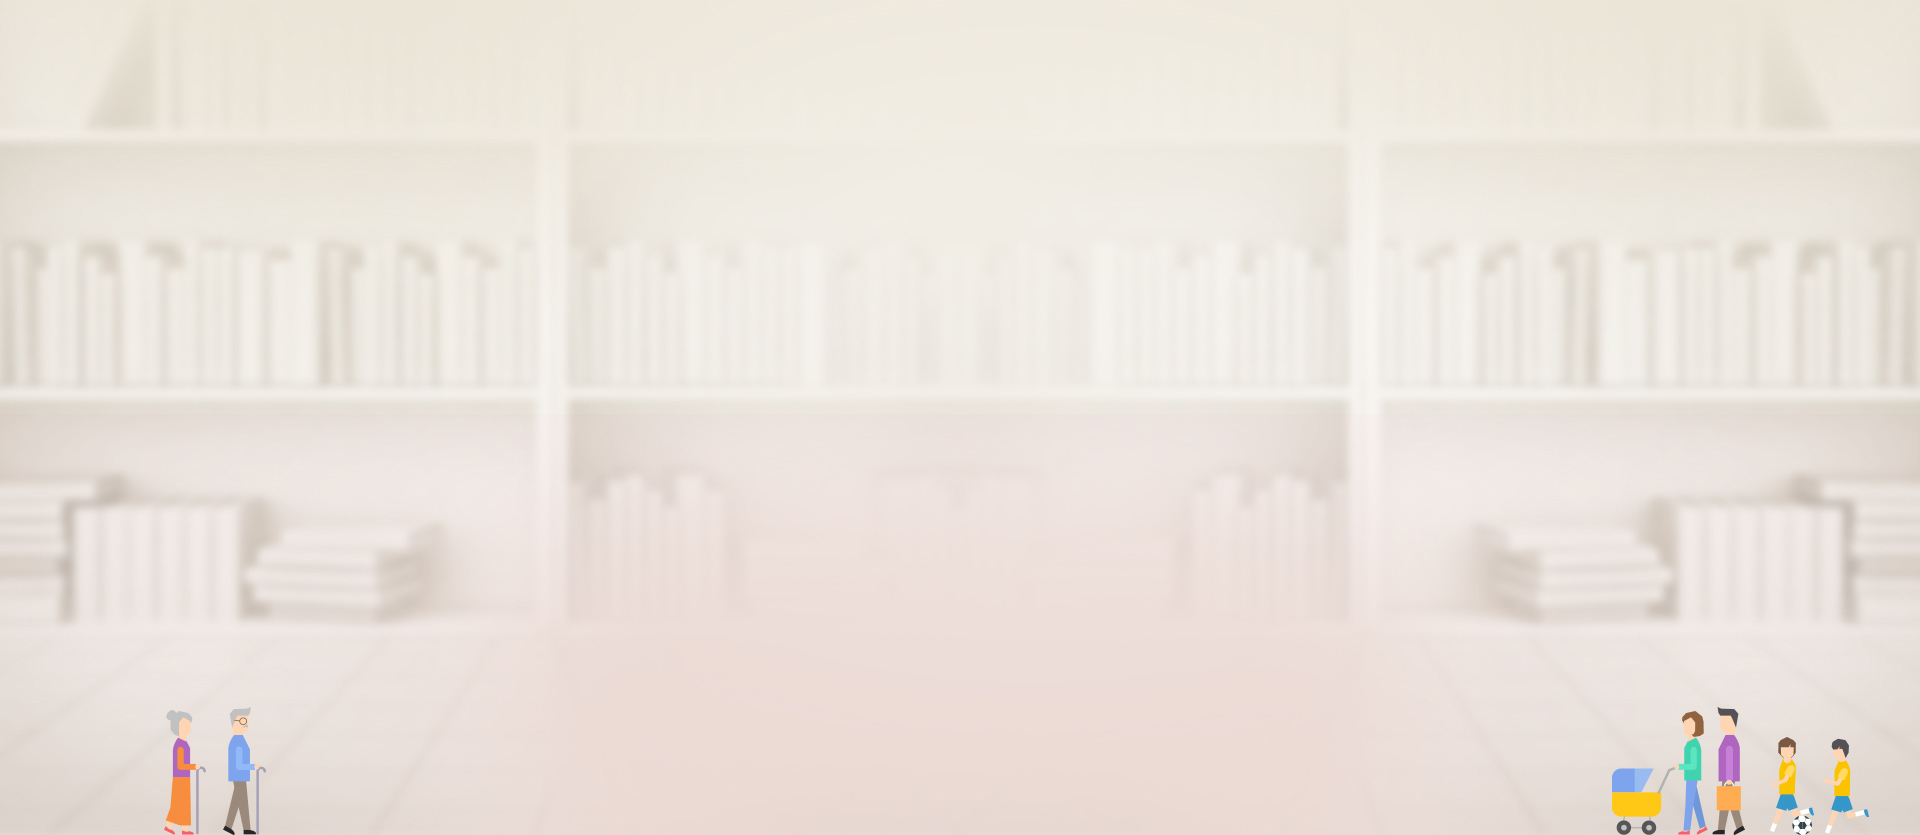
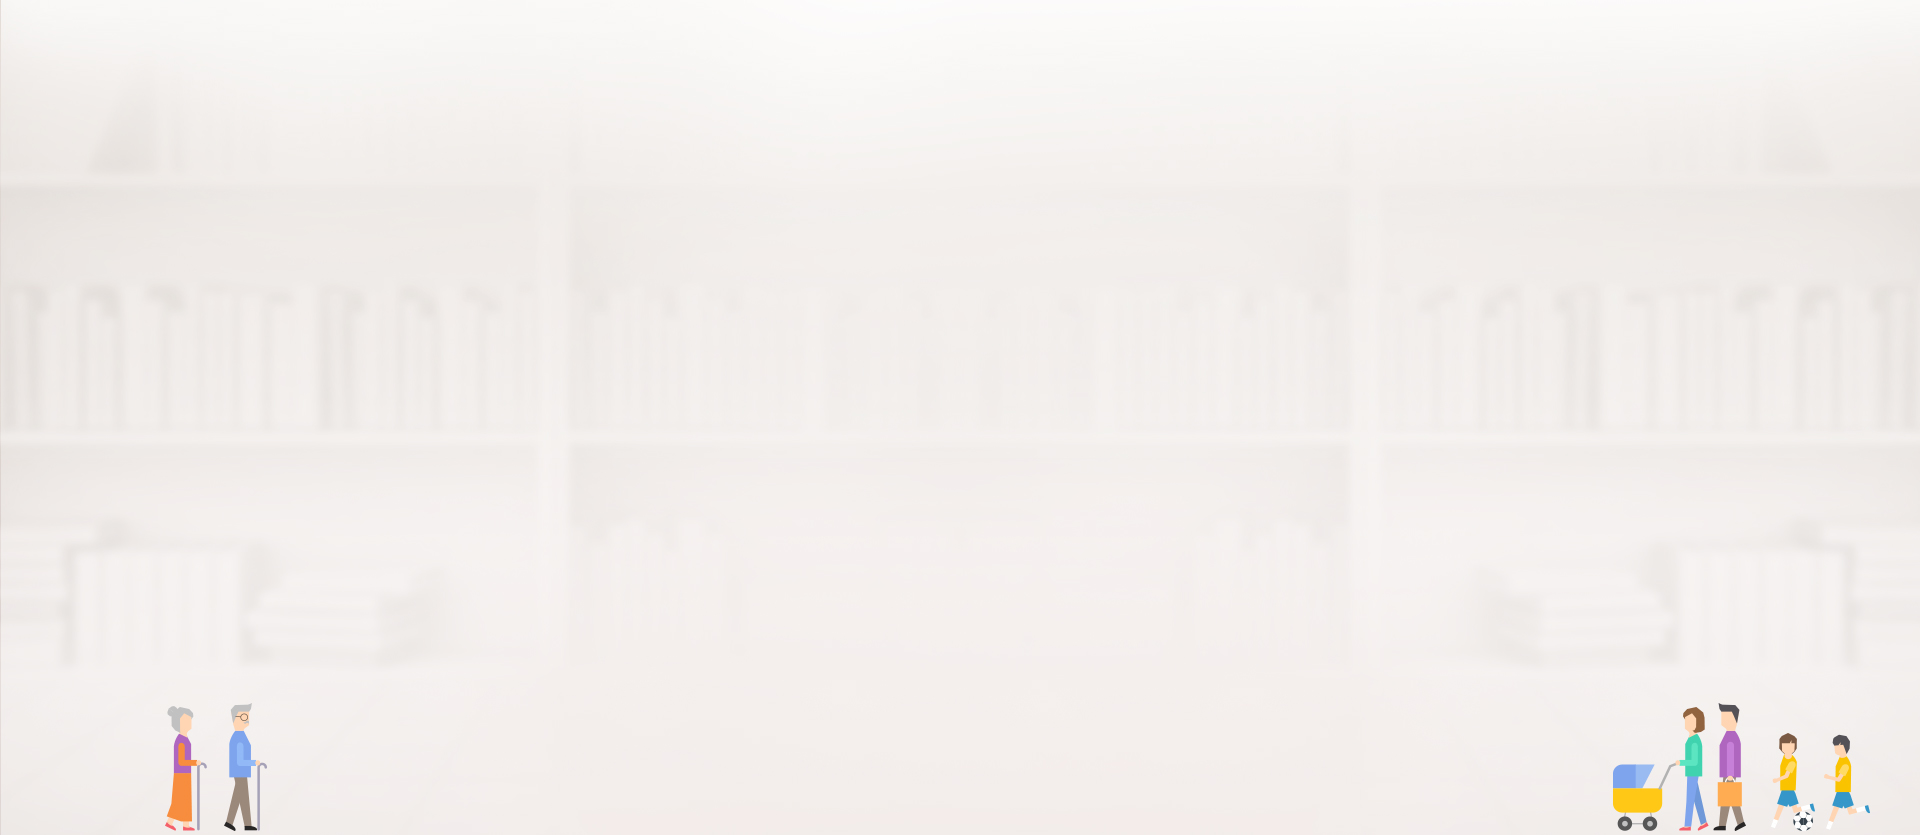
외부작업 반영

diff --git a/src/main/webapp/resources/homepage/seogulib/css/default.css b/src/main/webapp/resources/homepage/seogulib/css/default.css
@@ -4,7 +4,7 @@ a:hover,
 a:focus{color:#2b74c0}
 
 /* header */
-.tnb{position:relative;text-align:right;background:#ece6d8;}
+.tnb{position:relative;text-align:right;background:#fbfbfa;}
 .tnb .util{line-height:85px;height:85px}
 .tnb a, .tnb span, .tnb b{vertical-align:middle;font-size:15px;color:#222;font-weight:bold;display:inline-block;letter-spacing:0; padding:0;}
 .tnb a img{vertical-align:middle;}
@@ -82,7 +82,7 @@ a:focus{color:#2b74c0}
 .banner-wrap>.banner-box4 > div{width:1040px !important;}
 
 /* Gnb */
-.Gnb{clear:both;text-align:center;width:100%;height:64px;overflow:inherit;position:relative;background:#ece6d8;border-top:1px solid #d2cac3;border-bottom:1px solid #d2cac3;}
+.Gnb{clear:both;text-align:center;width:100%;height:64px;overflow:inherit;position:relative;background:#fbfbfa;border-top:1px solid #ddd;border-bottom:1px solid #ddd;}
 .Gnb .gnb-menu{position:relative;text-align:center}
 .Gnb .gnb-menu>li:first-child{padding-left:0;}
 .Gnb .gnb-menu>li{padding:0 65px;text-align:center;position:static;background:url('../img/menu_dot.png')no-repeat 0 28px;}
